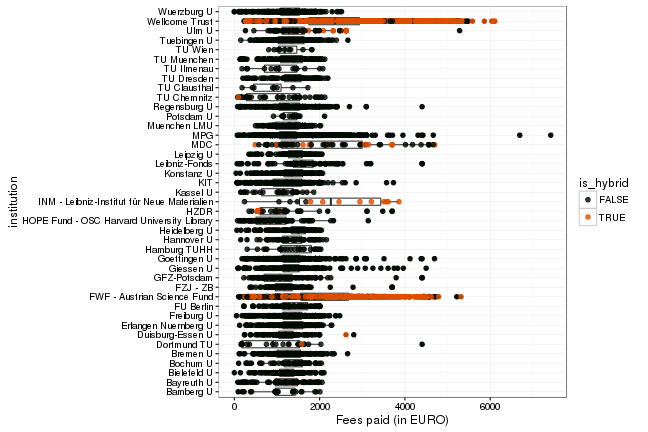
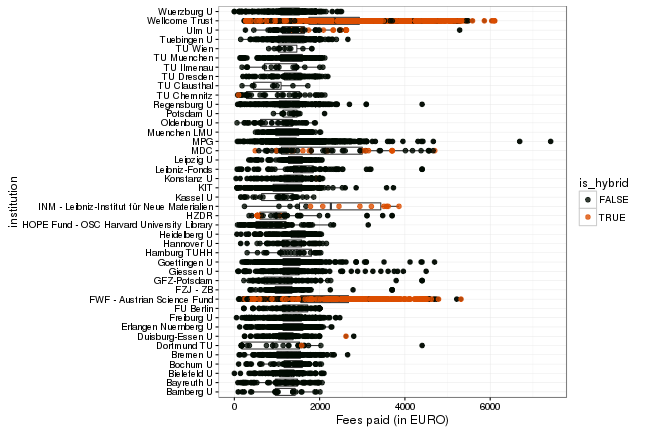
post: oldenburg joins OpenAPC

diff --git a/about.md b/about.md
@@ -40,6 +40,7 @@ So far, the following German universities have agreed to share information on pa
 - [University of Göttingen](http://www.sub.uni-goettingen.de/en/electronic-publishing/open-access/open-access-publication-funding/)
 - [University of Kassel](http://www.uni-kassel.de/go/publikationsfonds)
 - [University of Konstanz](http://www.ub.uni-konstanz.de/openaccess/open-access-publikationsfonds-der-universitaet-konstanz/)
+- [University of Oldenburg](http://www.bis.uni-oldenburg.de/en/teachingresearchingpublishing/publishing/openaccesspublishing/open-access-publication-fund/)
 - [University of Potsdam](https://publishup.uni-potsdam.de/home/index/help/content/publication_fund)
 - [University of Regensburg](http://oa.uni-regensburg.de/)
 - [University of Tübingen](https://www.uni-tuebingen.de/en/facilities/university-library/researching-publishing/open-access-publikationsfonds.html)
@@ -81,13 +82,13 @@ The data content covers APCs as paid for by our central budget for the Max Planc
 
 Information on both open access journal articles and open access publication of articles in toll-access journals ("hybrid") are provided.
 
-In total,  33 002 414 € for  18 538 articles were paid by the participating unviversities. Average  fee is 1 780.3 € and the median 1 542 €.
+In total,  33 049 530 € for  18 583 articles were paid by the participating unviversities. Average  fee is 1 778.5 € and the median 1 542 €.
 
 ### Open Access Journals
 
 
 
-At the moment, the dataset releases information on 11 990 articles in open access journals which charge publication fees. Total expenditure amounts to  16 312 832 €. Average  fee is 1 360.5 € and the median 1 274 €.
+At the moment, the dataset releases information on 12 035 articles in open access journals which charge publication fees. Total expenditure amounts to  16 359 949 €. Average  fee is 1 359.4 € and the median 1 273 €.
 
 View dataset on [GitHub](https://github.com/OpenAPC/openapc-de/blob/master/data/apc_de.csv).
 
@@ -123,6 +124,7 @@ View dataset on [GitHub](https://github.com/OpenAPC/openapc-de/blob/master/data/
 |MDC                                         |       51|           103,028|         2,020|  1,483|
 |MPG                                         |    3,016|         3,924,332|         1,301|  1,178|
 |Muenchen LMU                                |      365|           463,491|         1,270|  1,299|
+|Oldenburg U                                 |       45|            47,117|         1,047|  1,216|
 |Potsdam U                                   |       24|            32,128|         1,339|  1,386|
 |Regensburg U                                |      400|           503,845|         1,260|  1,207|
 |TU Chemnitz                                 |       40|            39,454|           986|  1,056|
@@ -237,13 +239,13 @@ For data enrichment, sample visualisations and explorations we build on the work
 
 ## Contributors
 
-Benjamin Ahlborn, Magdalena Andrae, Jochen Apel, Hans-Georg Becker, Roland Bertelmann, Daniel Beucke, Peter Blume, Ute Blumtritt, Christoph Broschinski, Dorothea Busjahn, Amanda Cullin, Gernot Deinzer, Andrea Dorner, Clemens Engelhardt, Uli Hahn, Kristina Hanig, Dominik Hell, Ulrich Herb, Ute Holzwarth, Inken Feldsien-Sudhaus, Fabian Franke, Claudia Frick, Agnes Geißelmann, Kai Karin Geschuhn, Gerrit Kuehle, Doris Jaeger, Andreas Kennecke, Robert Kiley, Stephanie Kroiss, Kathrin Lucht-Roussel, Frank Lützenkirchen, Anja Oberländer, Vitali Peil, Dirk Pieper, Tobias Pohlmann, Markus Putnings, Annette Scheiner, Michael Schlachter, Edith Reschke, Katharina Rieck, Florian Ruckelshausen, Birgit Schlegel, Adriana Sikora, Marco Tullney, Astrid Vieler, Marco Winkler, Sabine Witt, Najko Jahn
- 
+Benjamin Ahlborn, Magdalena Andrae, Jochen Apel, Hans-Georg Becker, Roland Bertelmann, Daniel Beucke, Peter Blume, Ute Blumtritt, Kim Braun, Christoph Broschinski, Dorothea Busjahn, Amanda Cullin, Gernot Deinzer, Andrea Dorner, Clemens Engelhardt, Uli Hahn, Kristina Hanig, Dominik Hell, Ulrich Herb, Ute Holzwarth, Inken Feldsien-Sudhaus, Fabian Franke, Claudia Frick, Agnes Geißelmann, Kai Karin Geschuhn, Gerrit Kuehle, Doris Jaeger, Andreas Kennecke, Robert Kiley, Stephanie Kroiss, Kathrin Lucht-Roussel, Frank Lützenkirchen, Anja Oberländer, Vitali Peil, Dirk Pieper, Tobias Pohlmann, Markus Putnings, Annette Scheiner, Michael Schlachter, Edith Reschke, Katharina Rieck, Florian Ruckelshausen, Birgit Schlegel, Adriana Sikora, Marco Tullney, Astrid Vieler, Marco Winkler, Sabine Witt, Najko Jahn
+
 ## Contact
 
 For bugs, feature requests and other issues, please submit an issue via [Github](https://github.com/OpenAPC/openapc-de/issues/new).
 
-For general comments, email najko.jahn at uni-bielefeld.de and dirk.pieper at uni-bielefeld.de
+For general comments, email openapc at uni-bielefeld.de
 
 ## Disclaimer
 

diff --git a/_posts/2016-11-03-oldenburg.md b/_posts/2016-11-03-oldenburg.md
@@ -1,0 +1,58 @@
+---
+layout:     post
+author:     Christoph Broschinski
+title:      University of Oldenburg joins openapc.github.io
+date:       2016-11-03 08:00:00
+summary:    
+categories: [general, openAPC]
+comments: true
+---
+
+
+
+
+We welcome the [Carl von Ossietzky University of Oldenburg](https://www.uni-oldenburg.de/en/) as new contributing institution! The [BIS](http://www.bis.uni-oldenburg.de/en/bishome/) (Library and Information System) is in charge of the [University's Open Access Publishing Fund](http://www.bis.uni-oldenburg.de/en/teachingresearchingpublishing/publishing/openaccesspublishing/open-access-publication-fund/), which is supported under the [DFG's Open Access Publishing Programme](http://www.dfg.de/en/research_funding/programmes/infrastructure/lis/funding_opportunities/open_access_publishing/index.html).
+
+Contact person is [Kim Braun](mailto:kim.braun@uni-oldenburg.de).
+
+## Cost Data
+
+
+
+The dataset covers publication fees for 45 articles. Total expenditure amounts to 47 117€ and the average fee is 1 047€.
+
+The following table and plots show the payments the BIS has made to publishers in 2016 (including taxes and discounts).
+
+
+|                                 | Articles| Fees paid in EURO| Mean Fee paid|
+|:--------------------------------|--------:|-----------------:|-------------:|
+|Frontiers Media SA               |       12|             16747|          1396|
+|Springer Nature                  |        6|              6348|          1058|
+|MDPI AG                          |        5|              6088|          1218|
+|Public Library of Science (PLoS) |        4|              5137|          1284|
+|SAGE Publications                |        4|              1716|           429|
+|Walter de Gruyter GmbH           |        2|              1210|           605|
+|BMJ                              |        1|              1520|          1520|
+|Botanical Society of America     |        1|               313|           313|
+|Copernicus GmbH                  |        1|              1339|          1339|
+|Elsevier BV                      |        1|              1218|          1218|
+|European Optical Society         |        1|               350|           350|
+|Hindawi Publishing Corporation   |        1|              1361|          1361|
+|IOP Publishing                   |        1|              1014|          1014|
+|Medip Academy                    |        1|                63|            63|
+|Mongabay                         |        1|               230|           230|
+|PAGEPress Publications           |        1|               500|           500|
+|PeerJ                            |        1|               622|           622|
+|Wiley-Blackwell                  |        1|              1342|          1342|
+
+### Fees paid per publisher (in EURO)
+
+![plot of chunk tree_oldenburg_2016_11_03_full](/figure/tree_oldenburg_2016_11_03_full-1.png)
+
+###  Average costs per year (in EURO)
+
+![plot of chunk box_oldenburg_2016_11_03_year_full](/figure/box_oldenburg_2016_11_03_year_full-1.png)
+
+###  Average costs per publisher (in EURO)
+
+![plot of chunk box_oldenburg_2016_11_03_publisher_full](/figure/box_oldenburg_2016_11_03_publisher_full-1.png)
